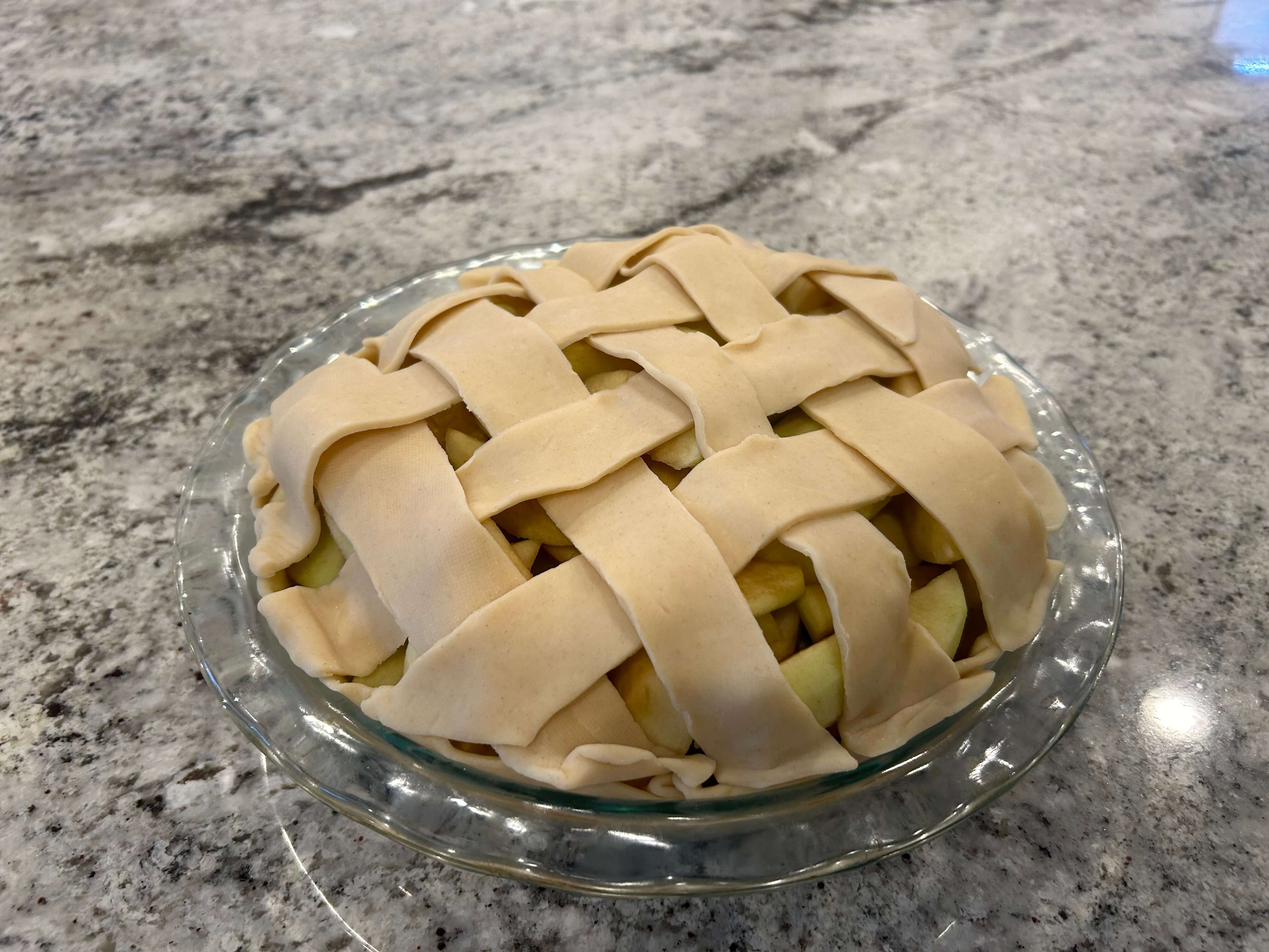
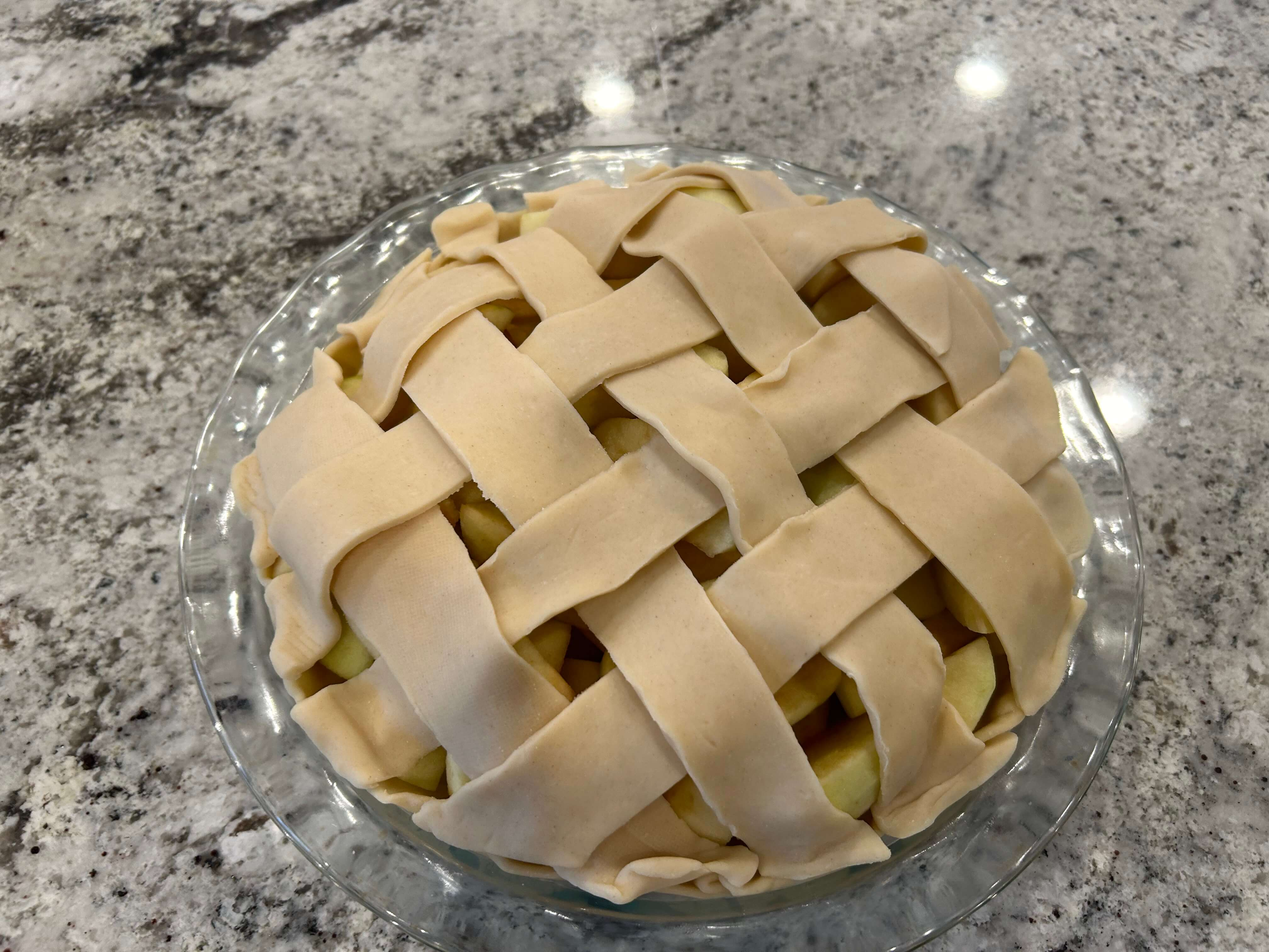
simplify apple pie images

diff --git a/server/data/recipes/apple-pie.js b/server/data/recipes/apple-pie.js
@@ -1,22 +1,16 @@
 const apples = '../assets/Products/apple-pie-apples.jpeg';
-const baked = '../assets/Products/apple-pie-baked.jpeg';
-const zoomed1 = '../assets/Products/apple-pie-baked-zoomed-1.jpeg';
 const zoomed2 = '../assets/Products/apple-pie-baked-zoomed-2.jpeg';
-const zoomed3 = '../assets/Products/apple-pie-baked-zoomed-3.jpeg';
-const zoomed4 = '../assets/Products/apple-pie-baked-zoomed-4.jpeg';
-const zoomed5 = '../assets/Products/apple-pie-baked-zoomed-5.jpeg';
+const baked = '../assets/Products/apple-pie-baked.jpeg';
 const melted = '../assets/Products/apple-pie-melted-butter.jpeg';
 const melting = '../assets/Products/apple-pie-melting-butter.jpeg';
 const crust = '../assets/Products/apple-pie-pastry-dough.jpeg';
-const latticeAerialZoomed = '../assets/Products/apple-pie-raw-aerial-zoomed.jpeg';
-const latticeAerial = '../assets/Products/apple-pie-raw-lattice-aerial.jpeg';
-const lattice = '../assets/Products/apple-pie-raw-lattice.jpeg';
 const plated = '../assets/Products/apple-pie-plated.jpeg';
-const rawSauceZoomed = '../assets/Products/apple-pie-raw-with-sauce-zoomed.jpeg';
+const lattice = '../assets/Products/apple-pie-raw-lattice.jpeg';
 const rawSauce = '../assets/Products/apple-pie-raw-with-sauce.jpeg';
 const sauce = '../assets/Products/apple-pie-sauce.jpeg';
 const sliced = '../assets/Products/apple-pie-sliced.jpeg';
 const sugars = '../assets/Products/apple-pie-sugars.jpeg';
+
 const { GENRES, METHODS, SECTIONS, TYPES, CATEGORIES } = require('./constants');
 const { GRANNY_SMITH_APPLES, UNSALTED_BUTTER, ALL_PURPOSE_FLOUR, WHITE_SUGAR, BROWN_SUGAR, COLD_WATER, DOUBLE_CRUST_PIE_CRUST } = require('./ingredients');
 
@@ -68,11 +62,11 @@ module.exports = {
         { step: 'Add the apple slices to the pie pan (a slight mound is fine).', type: SECTIONS.MAIN },
         { step: 'Lay out four of the pastry strips vertically evenly spaced.', type: SECTIONS.MAIN },
         { step: 'Weave the remaining pastry strips horizontally and alternating.', type: SECTIONS.MAIN },
-        { step: 'Fold the lattice over the pie, trim any excess, and pinch.', type: SECTIONS.MAIN, img: [lattice, latticeAerial, latticeAerialZoomed] },
-        { step: 'Pour the sugar mixture over the lattice and make sure that it (1) gets onto the apples and (2) does not spill over the sides.', type: SECTIONS.MAIN, img: [rawSauce, rawSauceZoomed] },
+        { step: 'Fold the lattice over the pie, trim any excess, and pinch.', type: SECTIONS.MAIN, img: lattice },
+        { step: 'Pour the sugar mixture over the lattice and make sure that it (1) gets onto the apples and (2) does not spill over the sides.', type: SECTIONS.MAIN, img: rawSauce },
         { step: 'Bake for 15 minutes.', type: SECTIONS.MAIN },
         { step: 'Reduce to 350ºF and bake until apples are soft (about 35 to 45 minutes).', type: SECTIONS.MAIN },
-        { step: 'Enjoy a taste of America\'s traditional dessert al la mode (i.e. topped with ice cream) or all by itself.', type: SECTIONS.MAIN, img: [plated, sliced, zoomed1, zoomed2, zoomed3, zoomed4, zoomed5] },
+        { step: 'Enjoy a taste of America\'s traditional dessert al la mode (i.e. topped with ice cream) or all by itself.', type: SECTIONS.MAIN, img: [plated, sliced, zoomed2] },
     ],
     notes: [
         { note: 'Slicing this pie is easier when it is cooled but it may come out crumbly but it\'s still good.' },
